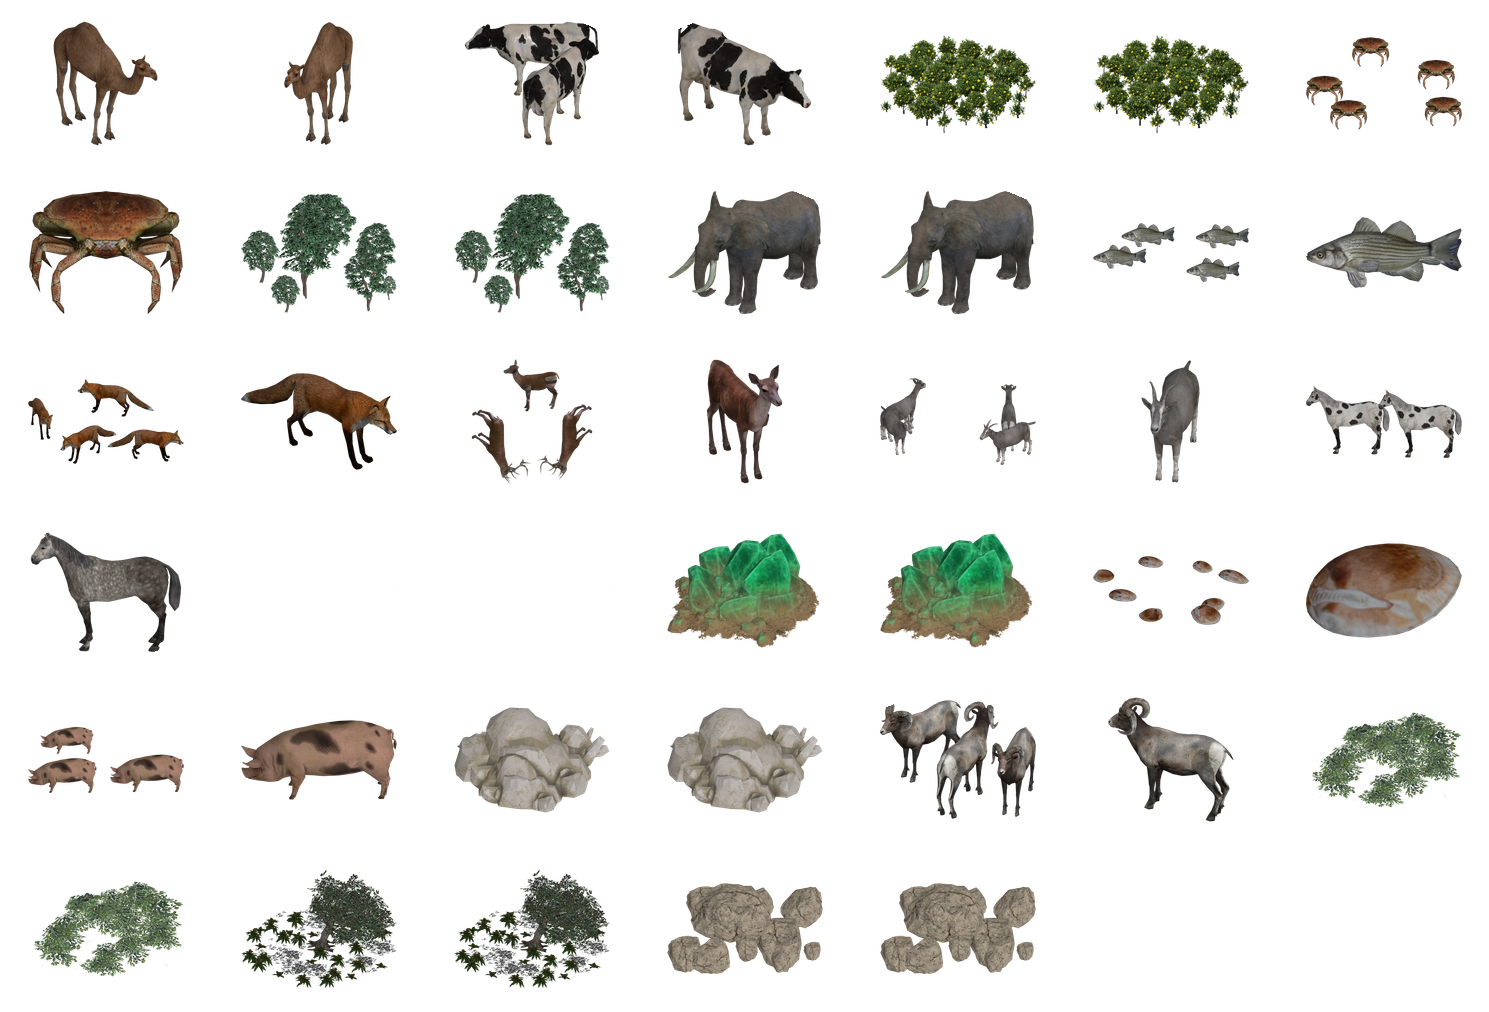
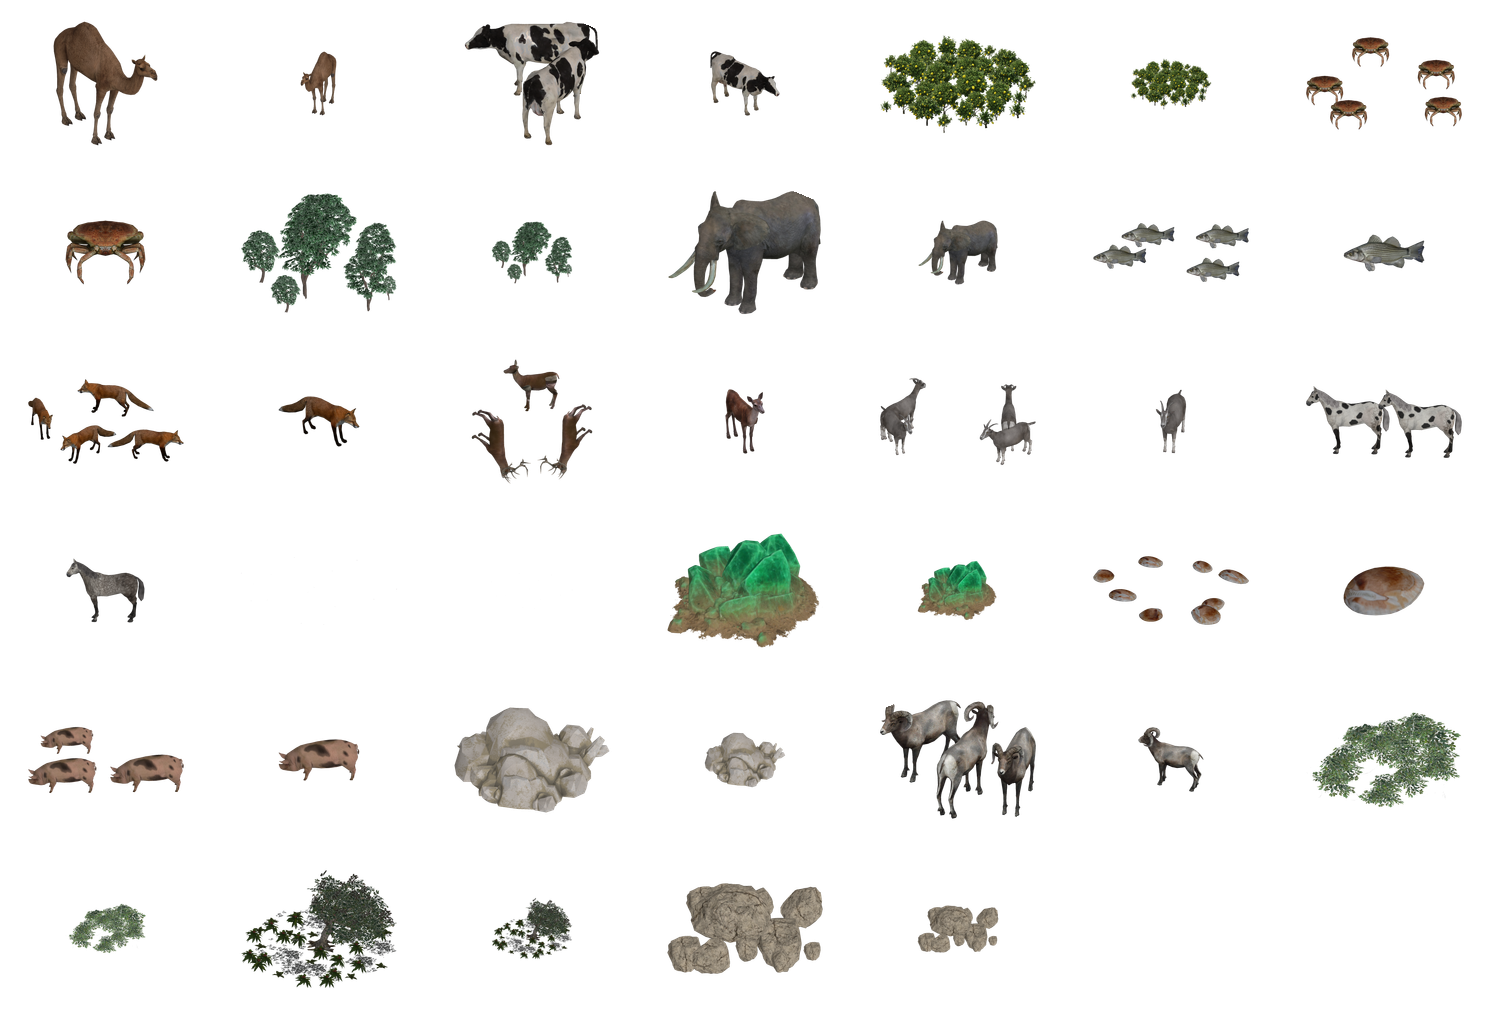
feat: shrink SOLO resource sprites to 0.40 scale
SOLO resources draw alongside rural improvements (Pasture/Camp/Mine).
Baking them at SAFE_SCALE made the single figure read as a peer to the
structure; 0.40 produces the accessory-beside-the-building look the game
has. HERD stays at SAFE_SCALE so wild-resource tiles still fill the hex.

Also probe both pinacotheca layouts (worktree and main repo) so the bake
runs outside .claude/worktrees, mirroring bake-terrain-3d.

diff --git a/scripts/bake-resources.ts b/scripts/bake-resources.ts
@@ -27,11 +27,13 @@
 // Run: npm run bake:resources
 
 import { mkdir, readdir } from "node:fs/promises";
+import { existsSync } from "node:fs";
 import { dirname, resolve } from "node:path";
 import { fileURLToPath } from "node:url";
 import {
 	CELL_W,
 	CELL_H,
+	SAFE_SCALE,
 	type AtlasManifest,
 	type SpriteRect,
 	bakeCell,
@@ -42,10 +44,31 @@ import {
 } from "./lib/atlas-bake.js";
 import sharp from "sharp";
 
+// SOLO resources sit alongside a rural improvement (Pasture/Camp/Mine) which
+// itself bakes at SAFE_SCALE. Baking SOLO at the same scale makes the single
+// animal/figure read as a peer to the structure; shrinking it produces the
+// "accessory next to the building" look the game has.
+const SOLO_SCALE = 0.4;
+
 const __filename = fileURLToPath(import.meta.url);
 const __dirname = dirname(__filename);
 const REPO_ROOT = resolve(__dirname, "..");
-const PINACOTHECA_ROOT = resolve(REPO_ROOT, "../../../../pinacotheca");
+// Resolve pinacotheca's checkout. Two layouts in active use: the per-ankh
+// worktree under .claude/worktrees/<branch>/ (4 up) and the main repo at
+// <Old World>/per-ankh/ (1 up). Probe both; first one that exists wins.
+const PINACOTHECA_ROOT = (() => {
+	const candidates = [
+		resolve(REPO_ROOT, "../../../../pinacotheca"),
+		resolve(REPO_ROOT, "../pinacotheca"),
+	];
+	const found = candidates.find((p) => existsSync(p));
+	if (!found) {
+		throw new Error(
+			`could not locate pinacotheca; tried:\n  ${candidates.join("\n  ")}`,
+		);
+	}
+	return found;
+})();
 const PINACOTHECA_3D_DIR = resolve(
 	PINACOTHECA_ROOT,
 	"extracted/sprites/resources",
@@ -140,7 +163,8 @@ async function main(): Promise<void> {
 		// No brightness tweak. Resources are typically clusters of small
 		// figures (animals, fish, etc.); brightening washes them out and the
 		// improvement layer drawn on top already carries its own lift.
-		const baked = await bakeCell(pick.path, hexMask);
+		const scale = pick.variant === "SOLO" ? SOLO_SCALE : SAFE_SCALE;
+		const baked = await bakeCell(pick.path, hexMask, { scale });
 		composites.push({ input: baked, left: rect.x, top: rect.y });
 		const key = `RESOURCE_${pick.name}_${pick.variant}`;
 		sprites[key] = rect;